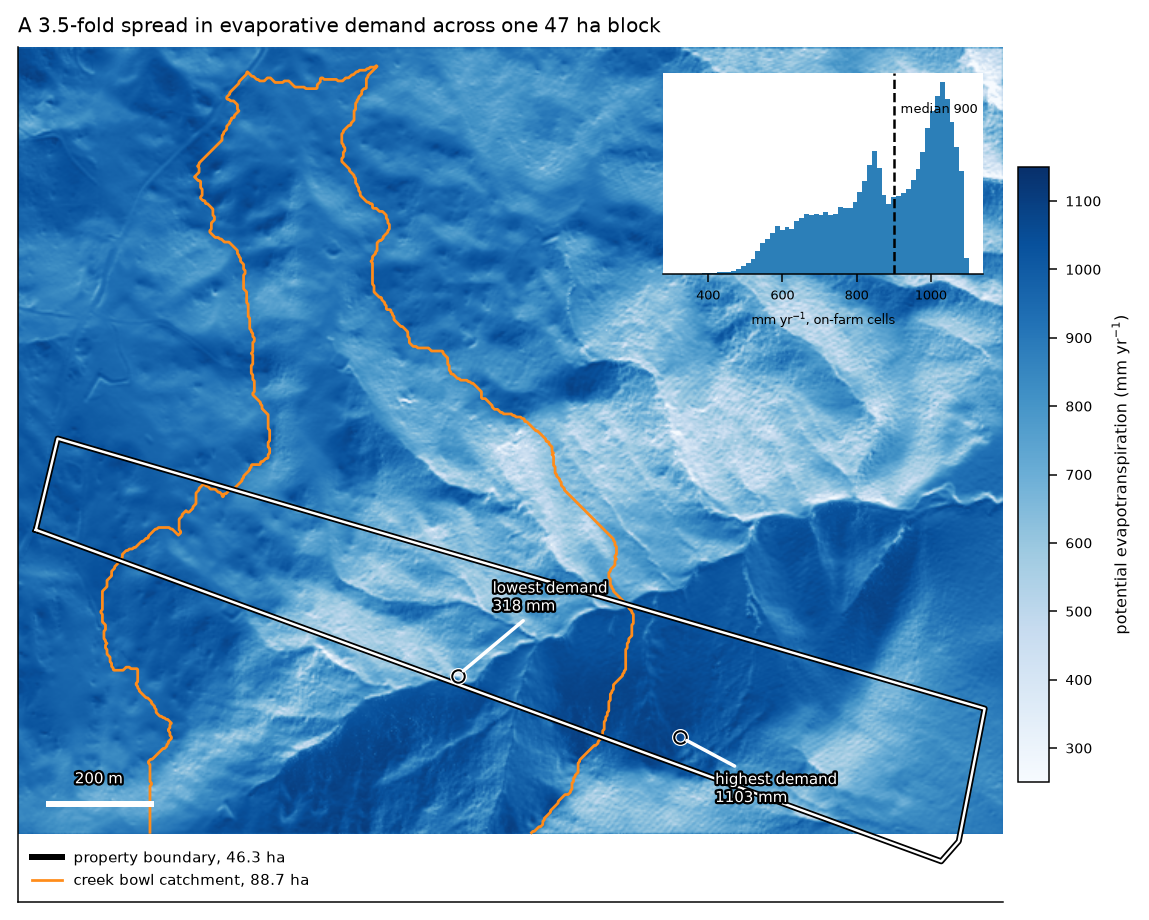
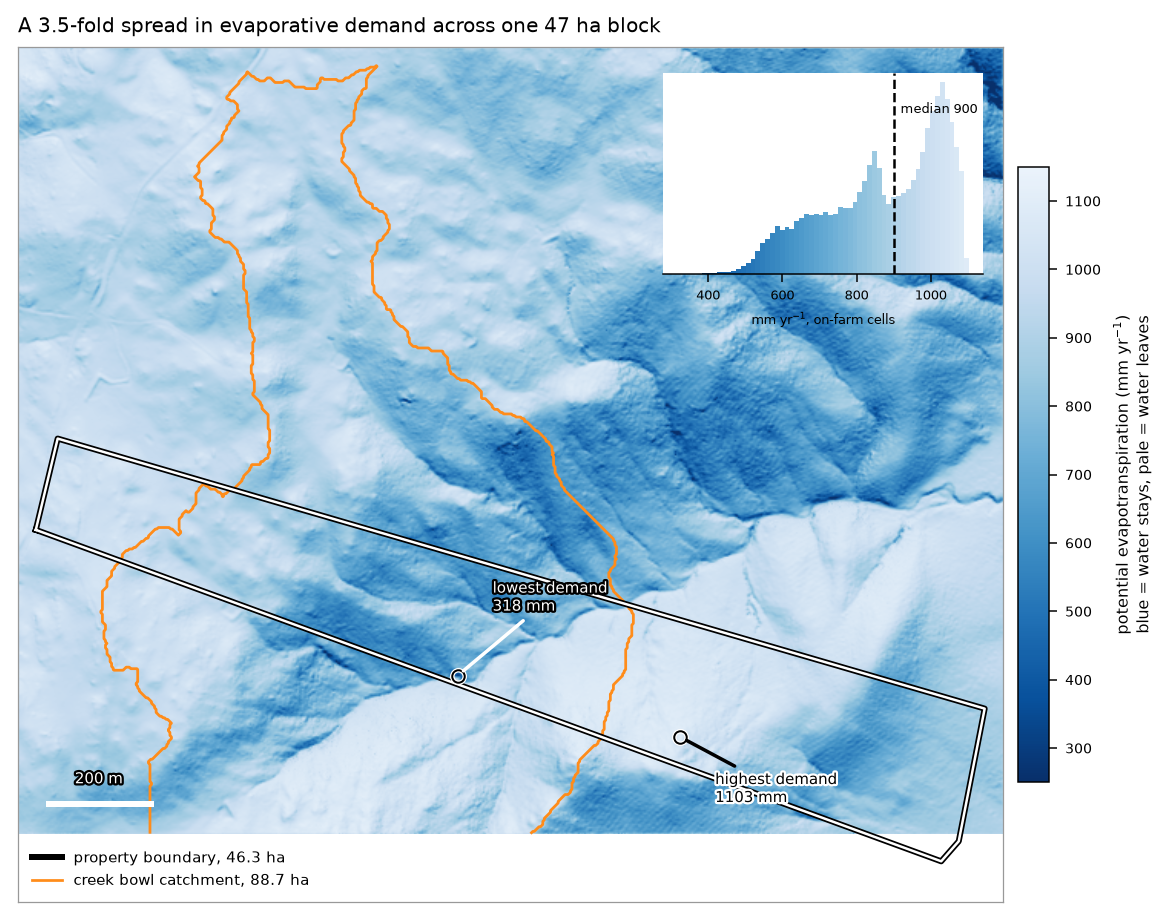
Invert the annual demand ramp: blue is where water stays
An annual total reads as a retention map, not a flux map, so dark blue now
marks the sheltered south faces and gully floors that lose least, and pale
marks the north faces that lose most. Histogram bars are tinted to the same
ramp. The daily movie keeps the opposite convention, where dark blue is the
day's largest loss; the colourbar on each says which is which.

diff --git a/README.md b/README.md
@@ -87,7 +87,7 @@ scale the whole of winter is a blank screen. Full version:
 
 ![Annual potential evapotranspiration at 3 m](docs/annual_et_3m.png)
 
-*The year summed into one map. Potential ET spans **318-1103 mm/yr** across 46.3 ha,
+*The year summed into one map. **Blue is where water stays, pale is where it leaves** - the ramp is inverted relative to the movie above, because an annual total is read as a map of retention rather than of flux. Potential ET spans **318-1103 mm/yr** across 46.3 ha,
 median 900, interquartile range 758-1012. The on-farm histogram is **bimodal**, not a
 smooth gradient: aspect sorts the block into two populations rather than a continuum.
 On slopes steeper than 20 degrees, north-facing ground demands **1071 mm/yr against
